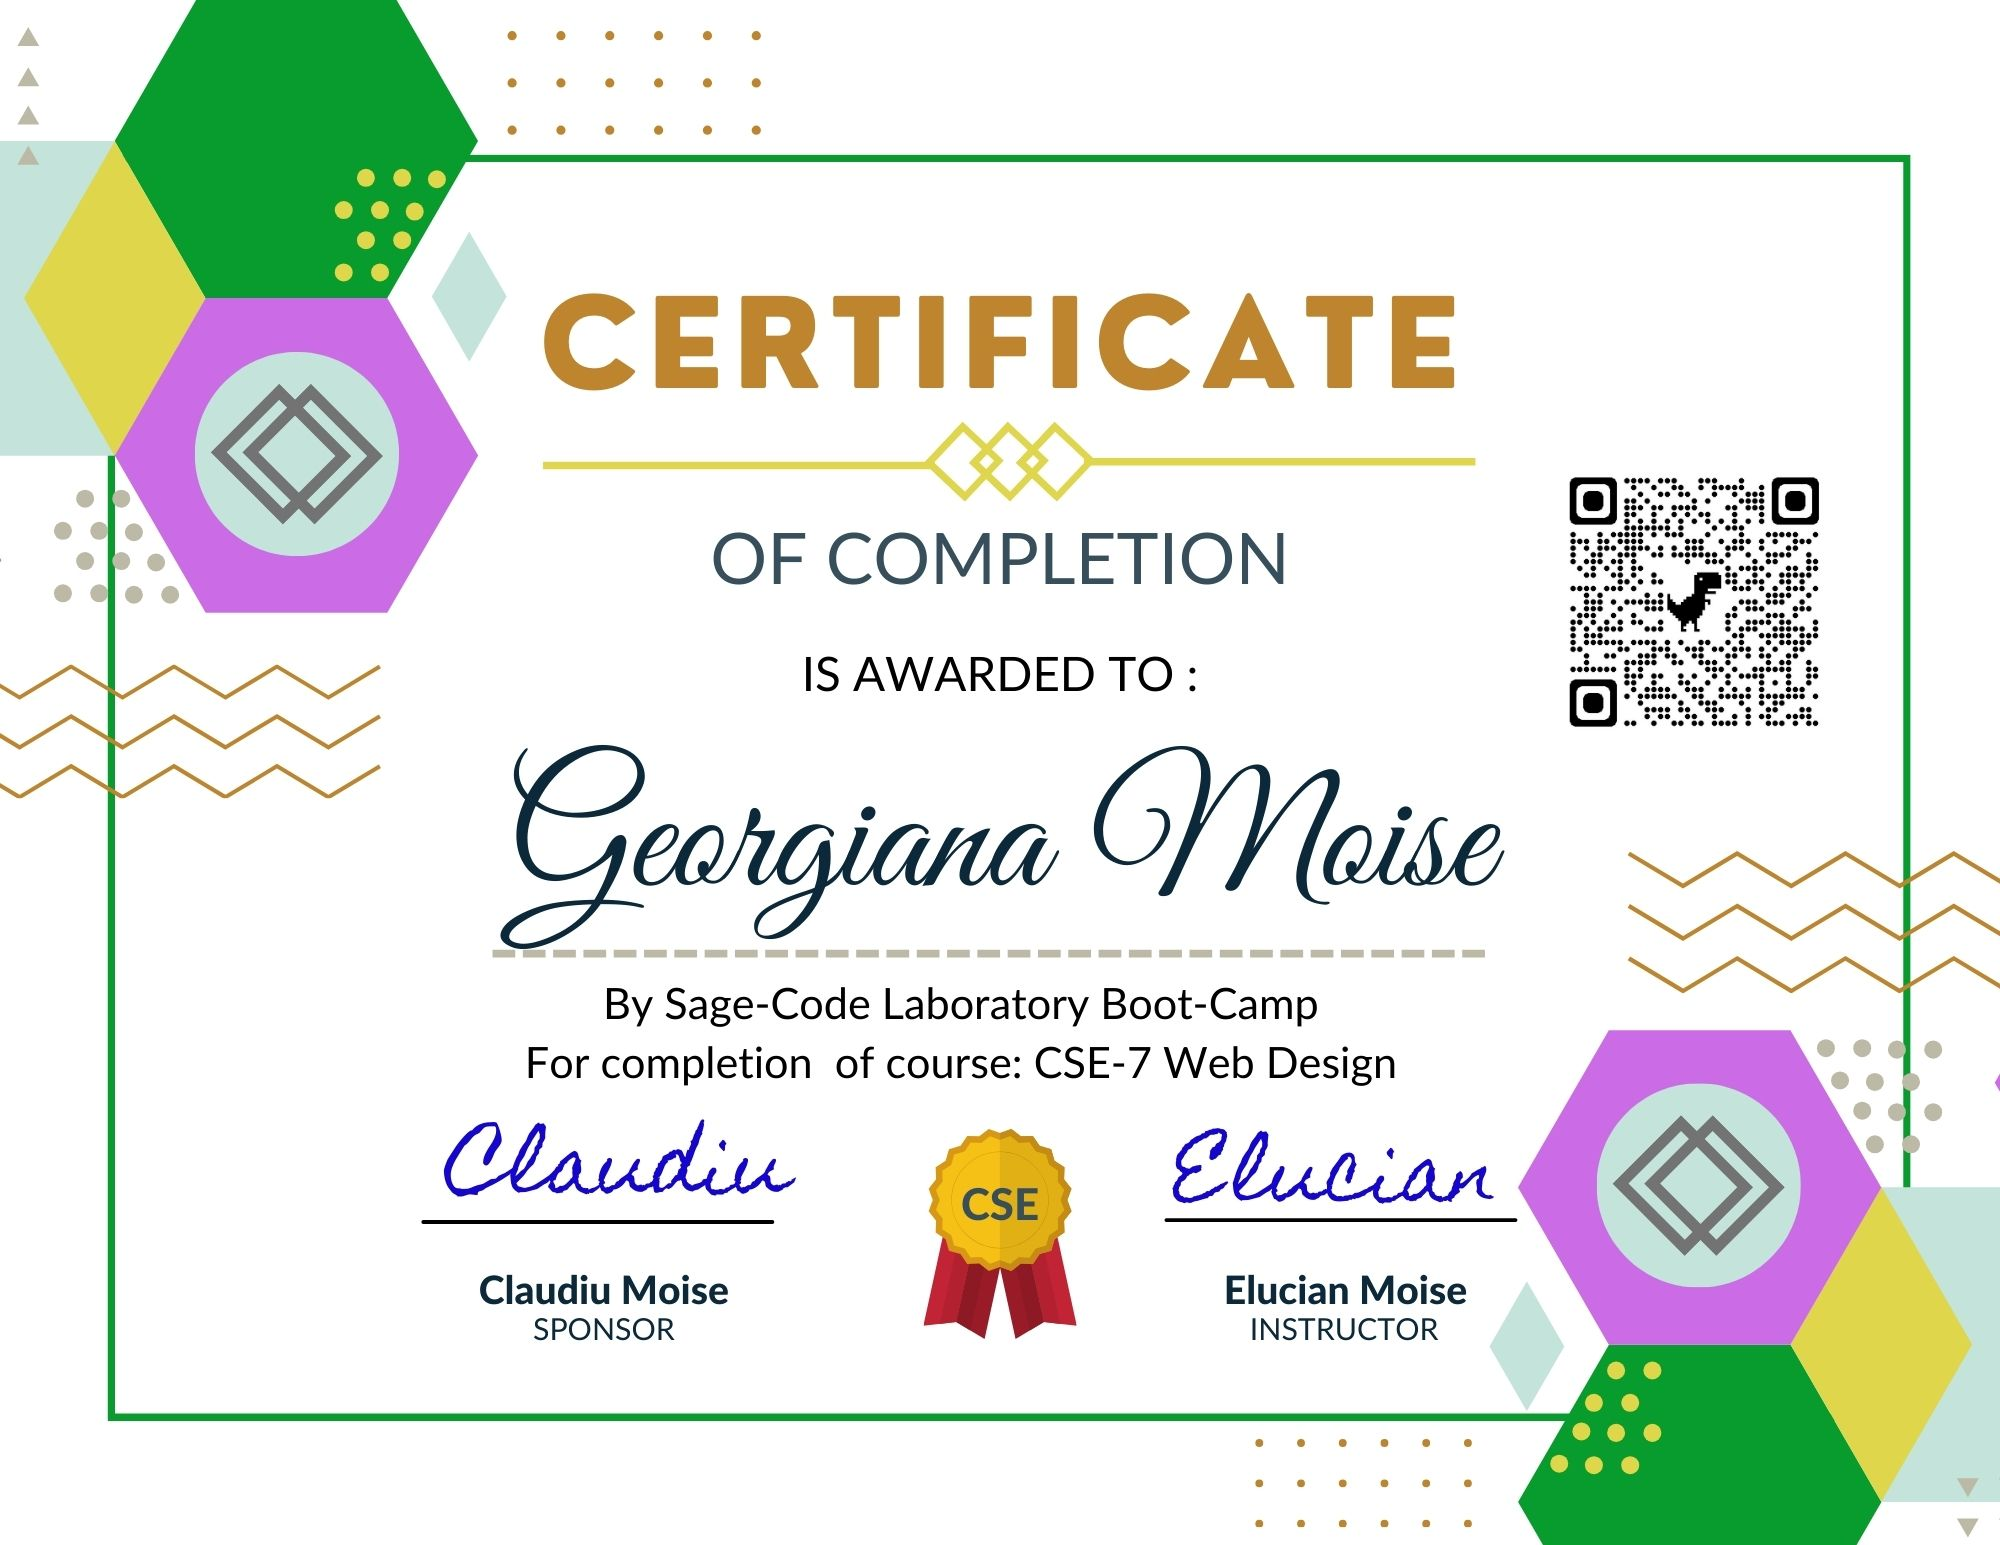
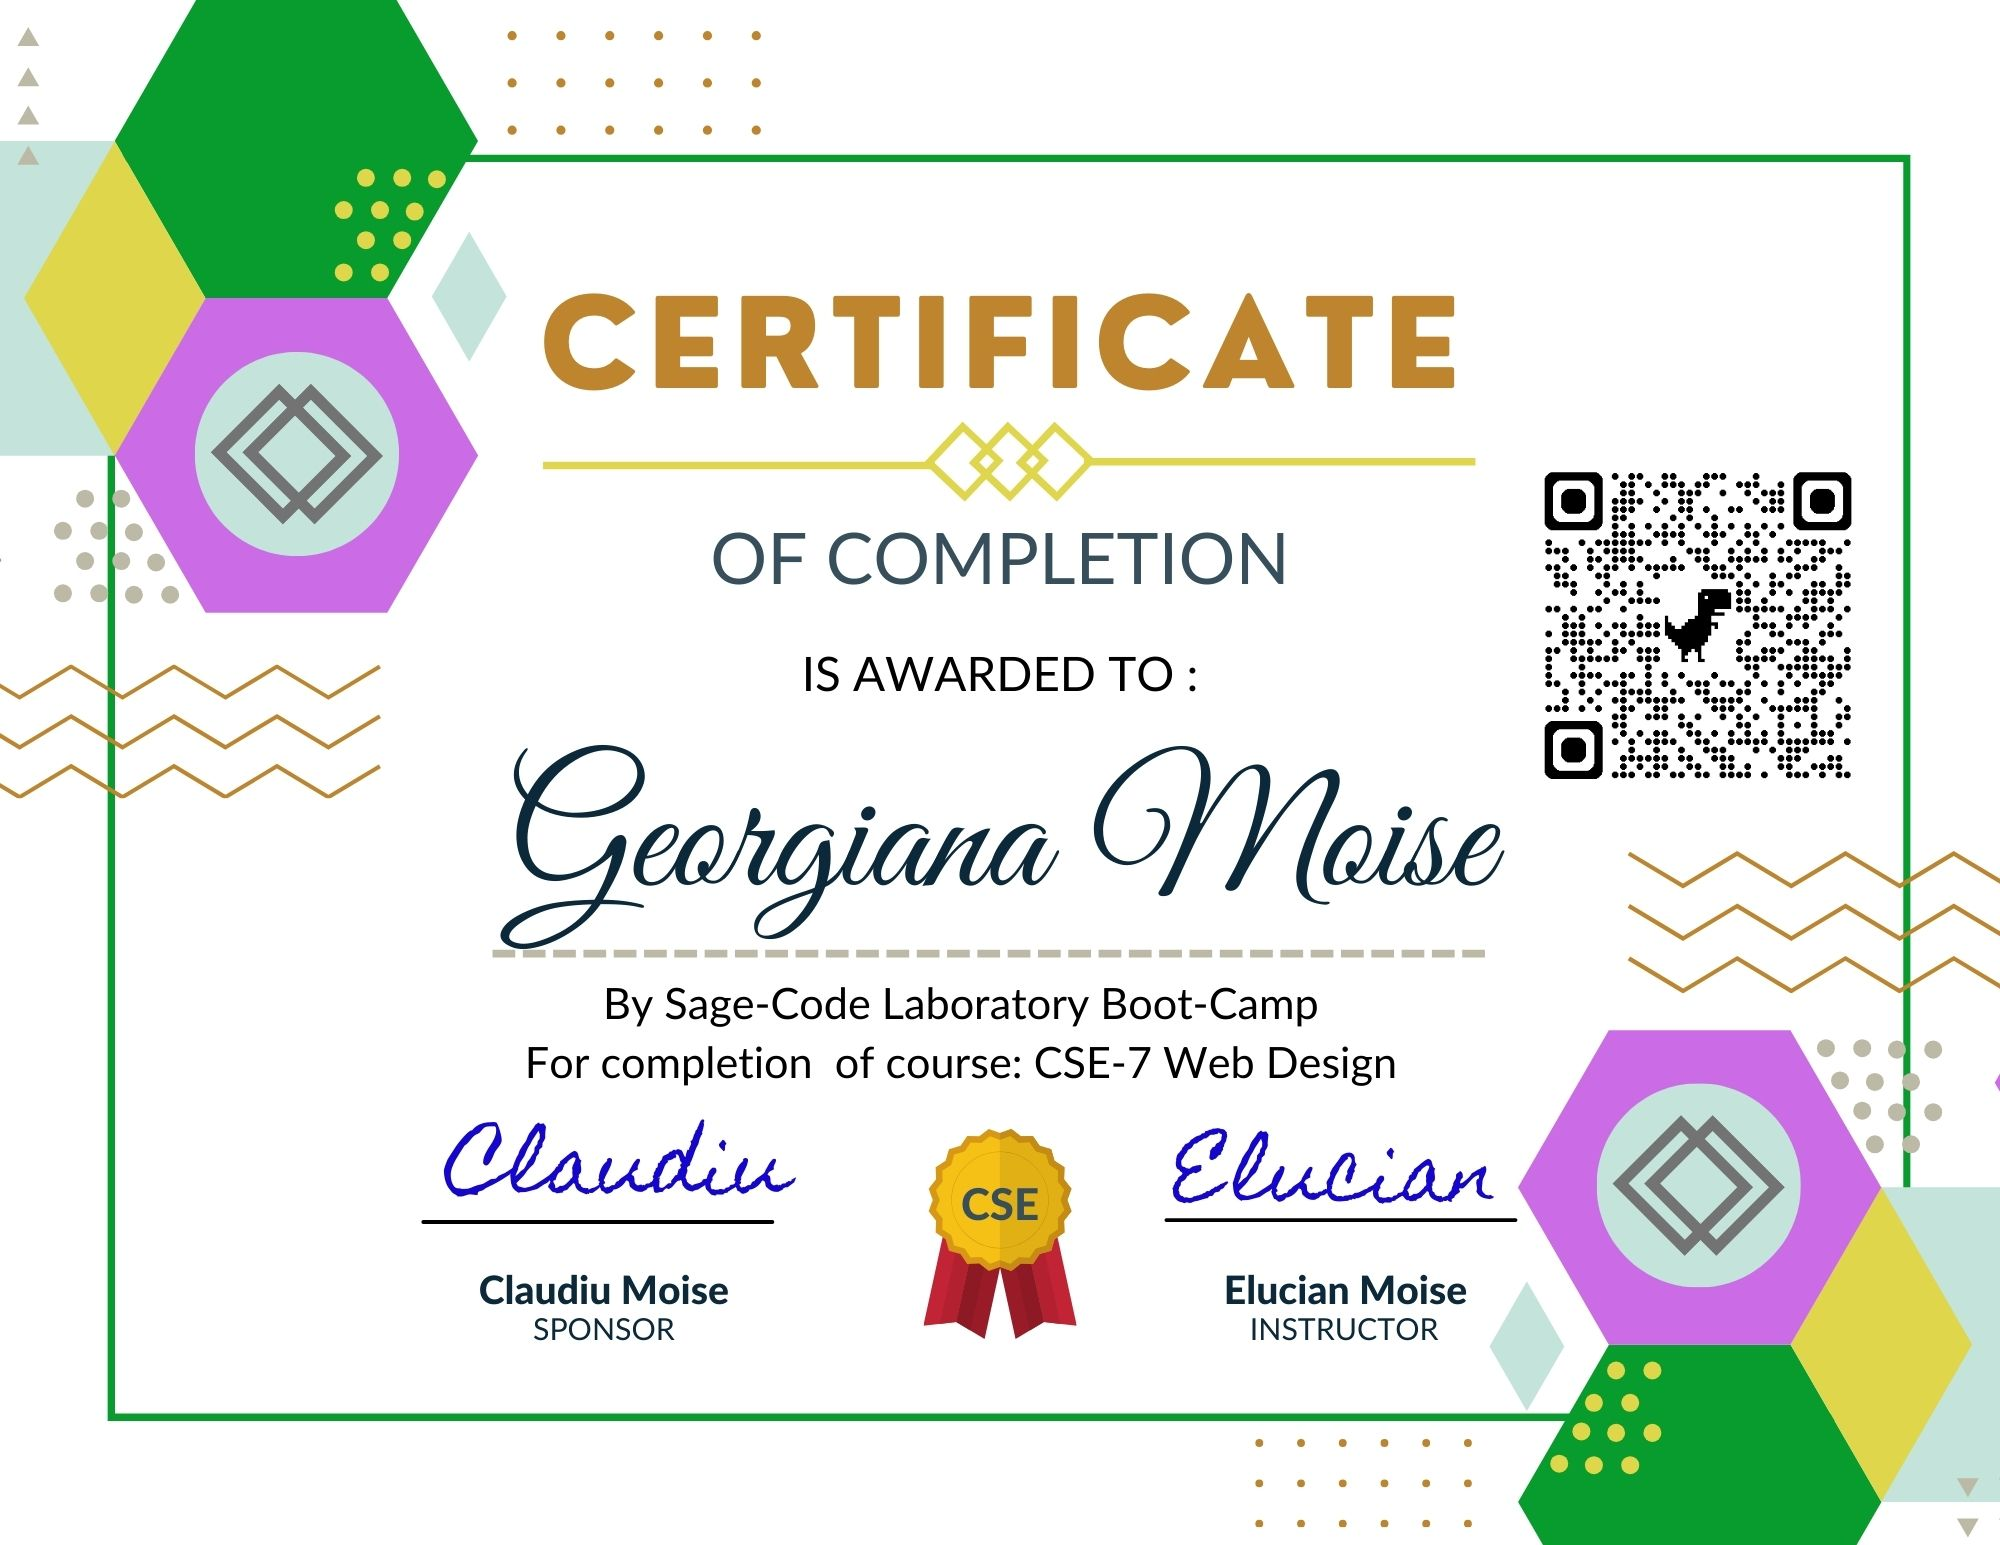
change qr code

Changed region(s): [[0.775, 0.2796, 0.93, 0.5282]]

diff --git a/index.html b/index.html
@@ -42,7 +42,7 @@
 <p>After you pass Sage-Code programming quizes you can claim a certificate of completion and <em>testimonial</em> page to be listed here. You can see an example <a href="https://sagecode.vip/ada.html" rel="nofollow">here</a>. Your testimonial will be customized, with information about your skills, education and links to your portfolio projects and certifications.</p>
 
 <div align="center">
-  <img src="certificate/CSE Engineering.jpg" alt="certificate" 
+  <img src="images/engineering.png" alt="certificate" 
   width="420" class="img-fluid protect shadow" style="border-radius :1%">    
   <p>John Doe<br>(Certificate of Completion)</p>
 </div>  

diff --git a/cmoise.html b/cmoise.html
@@ -45,7 +45,7 @@
   <img src="img/cnmoise.png" alt="cnmoise" 
   width="200" class="img-fluid protect shadow" style="border-radius :50%">    
   <p>Claudiu Moise</p>
-  <a href="certificate/cse-cnmoise.png">🖇 Certificate of Completion</a>
+  <a href="certificate/cse-cnmoise.jpg">🖇 Certificate of Completion</a>
 </div>  
 
 <h2>Skills</h2>
